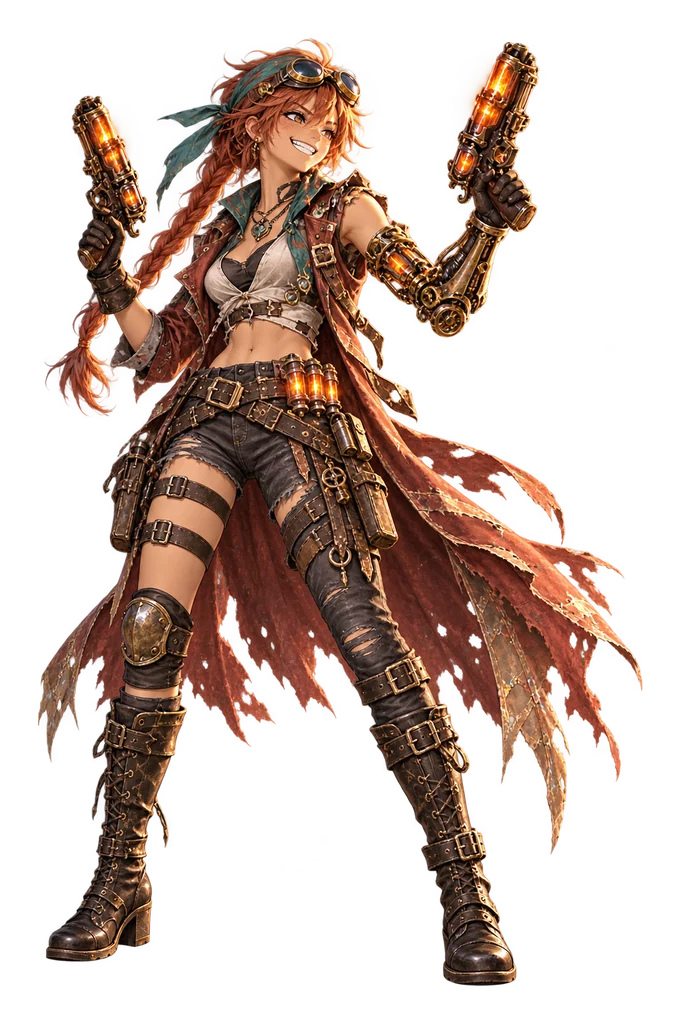
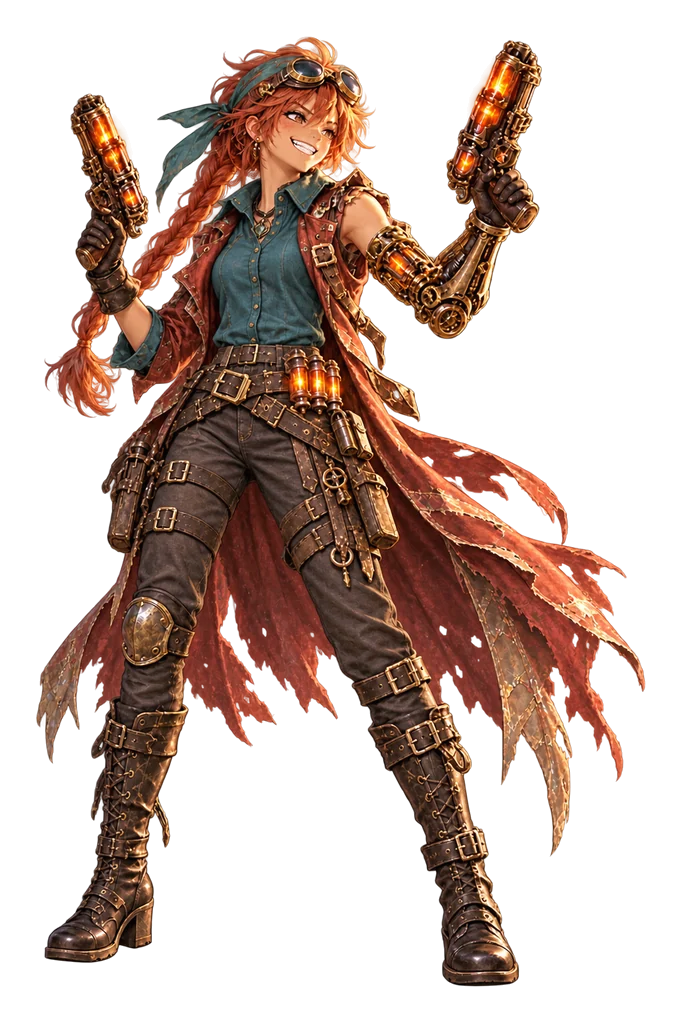
Wave 10, Section A: Wren's base in the covered look
ally_gunner/base.webp edited in place (681x1024, anchor [341,986] kept,
transparent): teal collared shirt tucked under the belts, full dark brown
trousers. Attempt 1 of 3; checked against the look reference from
story_harbor_arrival. Nothing flagged.

Changed region(s): [[0.0308, 0.0312, 0.9559, 0.9688], [0.0617, 0.9062, 0.0925, 0.9375]]

diff --git a/art/waves/wave-10-wren-dressed.md b/art/waves/wave-10-wren-dressed.md
@@ -34,7 +34,7 @@ Change only Wren's clothes, so she is dressed for an all-ages game, exactly as i
 
 ## Section A: Her base
 
-### ☐ `ally_gunner`, `base.webp`
+### ☑ `ally_gunner`, `base.webp`
 
 The edit target is `characters/ally_gunner/base.webp` (681×1024). Keep the same canvas, the same `anchor`, and the transparent background with no shadow.
 
